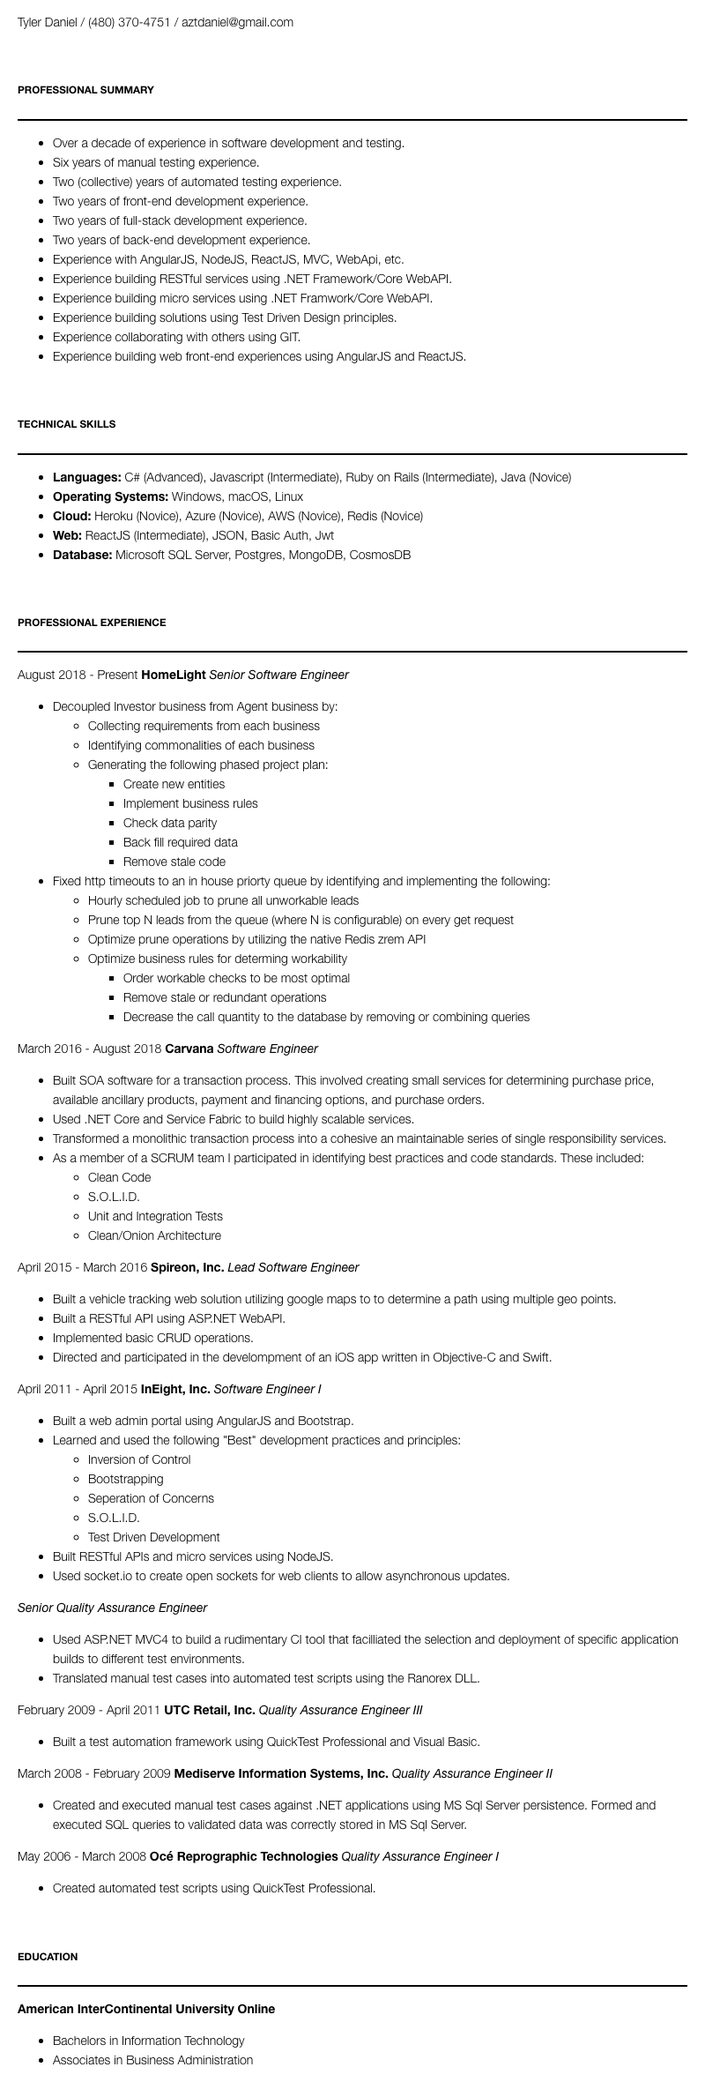
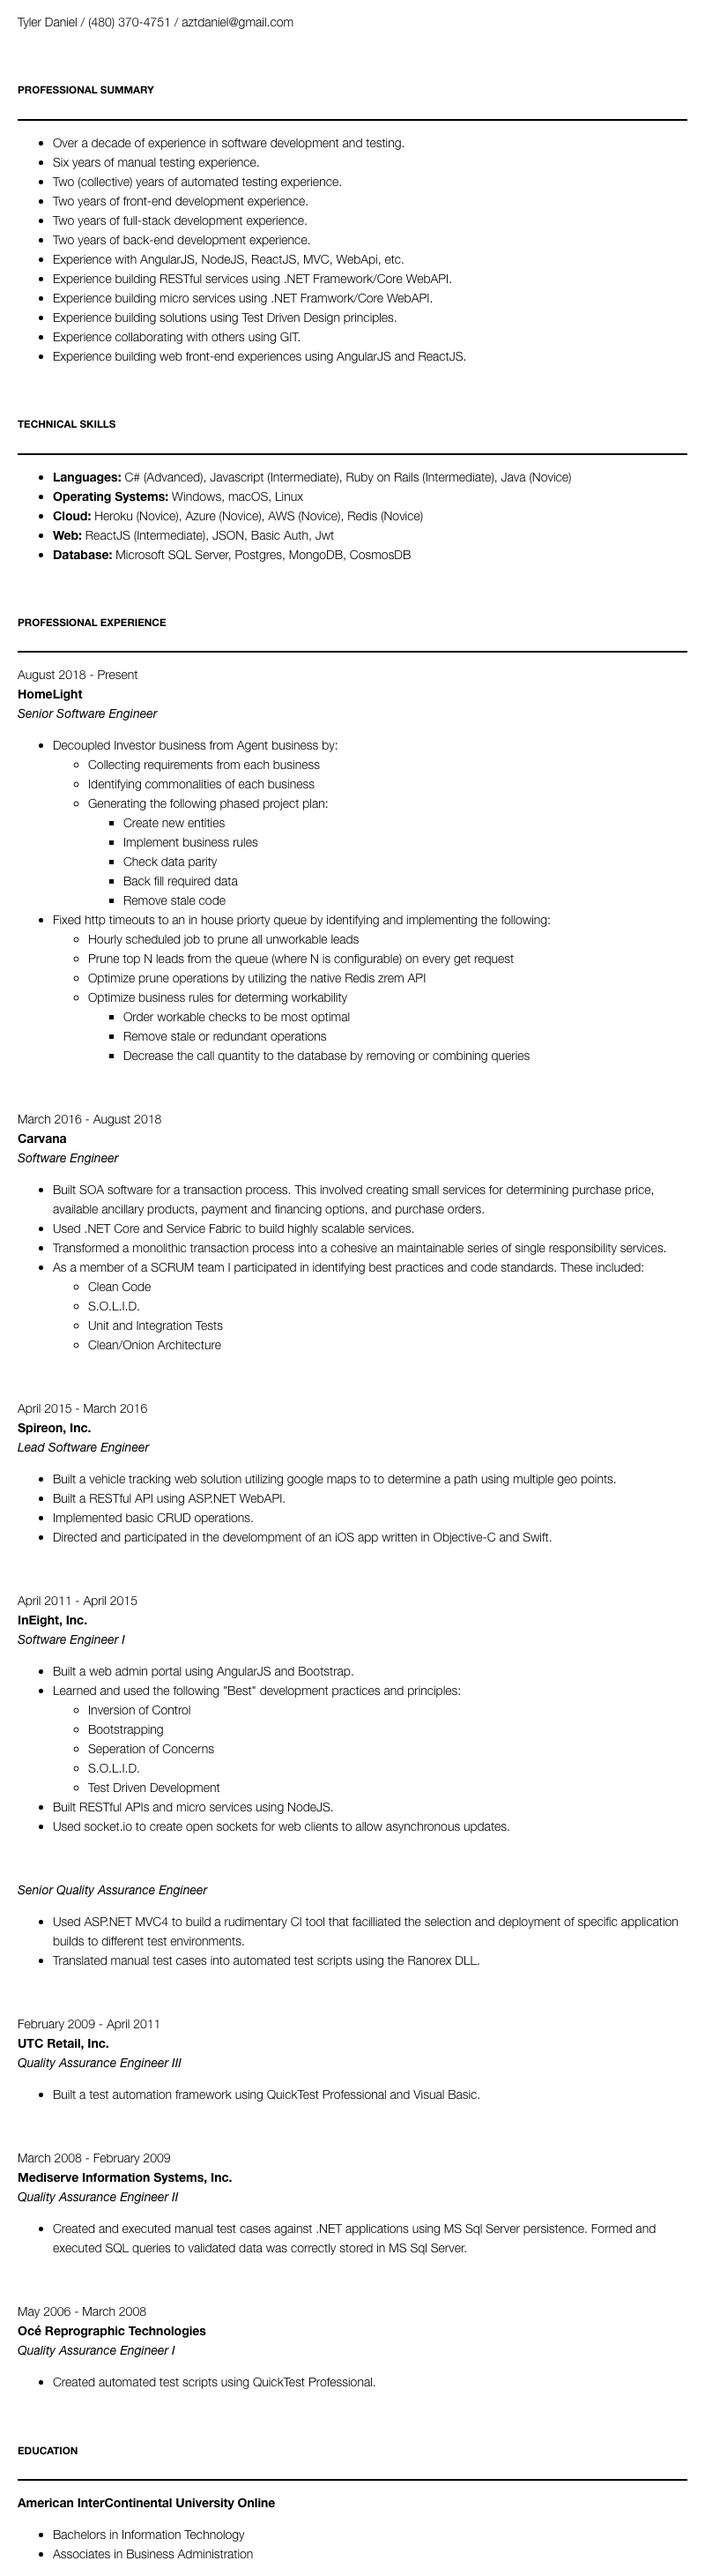
v3

diff --git a/resume.html b/resume.html
@@ -416,8 +416,8 @@ blockquote {
 <p> </p>
 <h5 id="professional-experience">PROFESSIONAL EXPERIENCE</h5>
 <hr>
-<p>August 2018 - Present
-<strong>HomeLight</strong>
+<p>August 2018 - Present<br>
+<strong>HomeLight</strong><br>
 <em>Senior Software Engineer</em></p>
 <ul>
 <li>Decoupled Investor business from Agent business by:
@@ -450,8 +450,9 @@ blockquote {
 </ul>
 </li>
 </ul>
-<p>March 2016 - August 2018
-<strong>Carvana</strong>
+<p> </p>
+<p>March 2016 - August 2018<br>
+<strong>Carvana</strong><br>
 <em>Software Engineer</em></p>
 <ul>
 <li>Built SOA software for a transaction process. This involved creating small services for determining purchase price, available ancillary products, payment and financing options, and purchase orders.</li>
@@ -466,8 +467,9 @@ blockquote {
 </ul>
 </li>
 </ul>
-<p>April 2015 - March 2016
-<strong>Spireon, Inc.</strong>
+<p> </p>
+<p>April 2015 - March 2016<br>
+<strong>Spireon, Inc.</strong><br>
 <em>Lead Software Engineer</em></p>
 <ul>
 <li>Built a vehicle tracking web solution utilizing google maps to to determine a path using multiple geo points.</li>
@@ -475,8 +477,9 @@ blockquote {
 <li>Implemented basic CRUD operations.</li>
 <li>Directed and participated in the develompment of an iOS app written in Objective-C and Swift.</li>
 </ul>
-<p>April 2011 - April 2015
-<strong>InEight, Inc.</strong>
+<p> </p>
+<p>April 2011 - April 2015<br>
+<strong>InEight, Inc.</strong><br>
 <em>Software Engineer I</em></p>
 <ul>
 <li>Built a web admin portal using AngularJS and Bootstrap.</li>
@@ -492,25 +495,29 @@ blockquote {
 <li>Built RESTful APIs and micro services using NodeJS.</li>
 <li>Used socket.io to create open sockets for web clients to allow asynchronous updates.</li>
 </ul>
+<p> </p>
 <p><em>Senior Quality Assurance Engineer</em></p>
 <ul>
 <li>Used ASP.NET MVC4 to build a rudimentary CI tool that facilliated the selection and deployment of specific application builds to different test environments.</li>
 <li>Translated manual test cases into automated test scripts using the Ranorex DLL.</li>
 </ul>
-<p>February 2009 - April 2011
-<strong>UTC Retail, Inc.</strong>
+<p> </p>
+<p>February 2009 - April 2011<br>
+<strong>UTC Retail, Inc.</strong><br>
 <em>Quality Assurance Engineer III</em></p>
 <ul>
 <li>Built a test automation framework using QuickTest Professional and Visual Basic.</li>
 </ul>
-<p>March 2008 - February 2009
-<strong>Mediserve Information Systems, Inc.</strong>
+<p> </p>
+<p>March 2008 - February 2009<br>
+<strong>Mediserve Information Systems, Inc.</strong><br>
 <em>Quality Assurance Engineer II</em></p>
 <ul>
 <li>Created and executed manual test cases against .NET applications using MS Sql Server persistence.  Formed and executed SQL queries to validated data was correctly stored in MS Sql Server.</li>
 </ul>
-<p>May 2006 - March 2008
-<strong>Océ Reprographic Technologies</strong>
+<p> </p>
+<p>May 2006 - March 2008<br>
+<strong>Océ Reprographic Technologies</strong><br>
 <em>Quality Assurance Engineer I</em></p>
 <ul>
 <li>Created automated test scripts using QuickTest Professional.</li>

diff --git a/resume.md b/resume.md
@@ -58,6 +58,8 @@ _Senior Software Engineer_
     - Remove stale or redundant operations
     - Decrease the call quantity to the database by removing or combining queries
 
+&nbsp;
+
 March 2016 - August 2018
 **Carvana**
 _Software Engineer_
@@ -70,6 +72,8 @@ _Software Engineer_
   - Unit and Integration Tests
   - Clean/Onion Architecture
 
+&nbsp;
+
 April 2015 - March 2016
 **Spireon, Inc.**
 _Lead Software Engineer_
@@ -77,6 +81,8 @@ _Lead Software Engineer_
 - Built a RESTful API using ASP.NET WebAPI.
 - Implemented basic CRUD operations.
 - Directed and participated in the develompment of an iOS app written in Objective-C and Swift.
+
+&nbsp;
 
 April 2011 - April 2015
 **InEight, Inc.**
@@ -91,19 +97,27 @@ _Software Engineer I_
 - Built RESTful APIs and micro services using NodeJS.
 - Used socket.io to create open sockets for web clients to allow asynchronous updates.
 
+&nbsp;
+
 _Senior Quality Assurance Engineer_
 - Used ASP.NET MVC4 to build a rudimentary CI tool that facilliated the selection and deployment of specific application builds to different test environments.
 - Translated manual test cases into automated test scripts using the Ranorex DLL.
+
+&nbsp;
 
 February 2009 - April 2011
 **UTC Retail, Inc.**
 _Quality Assurance Engineer III_
 - Built a test automation framework using QuickTest Professional and Visual Basic.
 
+&nbsp;
+
 March 2008 - February 2009
 **Mediserve Information Systems, Inc.**
 _Quality Assurance Engineer II_
 - Created and executed manual test cases against .NET applications using MS Sql Server persistence.  Formed and executed SQL queries to validated data was correctly stored in MS Sql Server.
+
+&nbsp;
 
 May 2006 - March 2008
 **Océ Reprographic Technologies**
